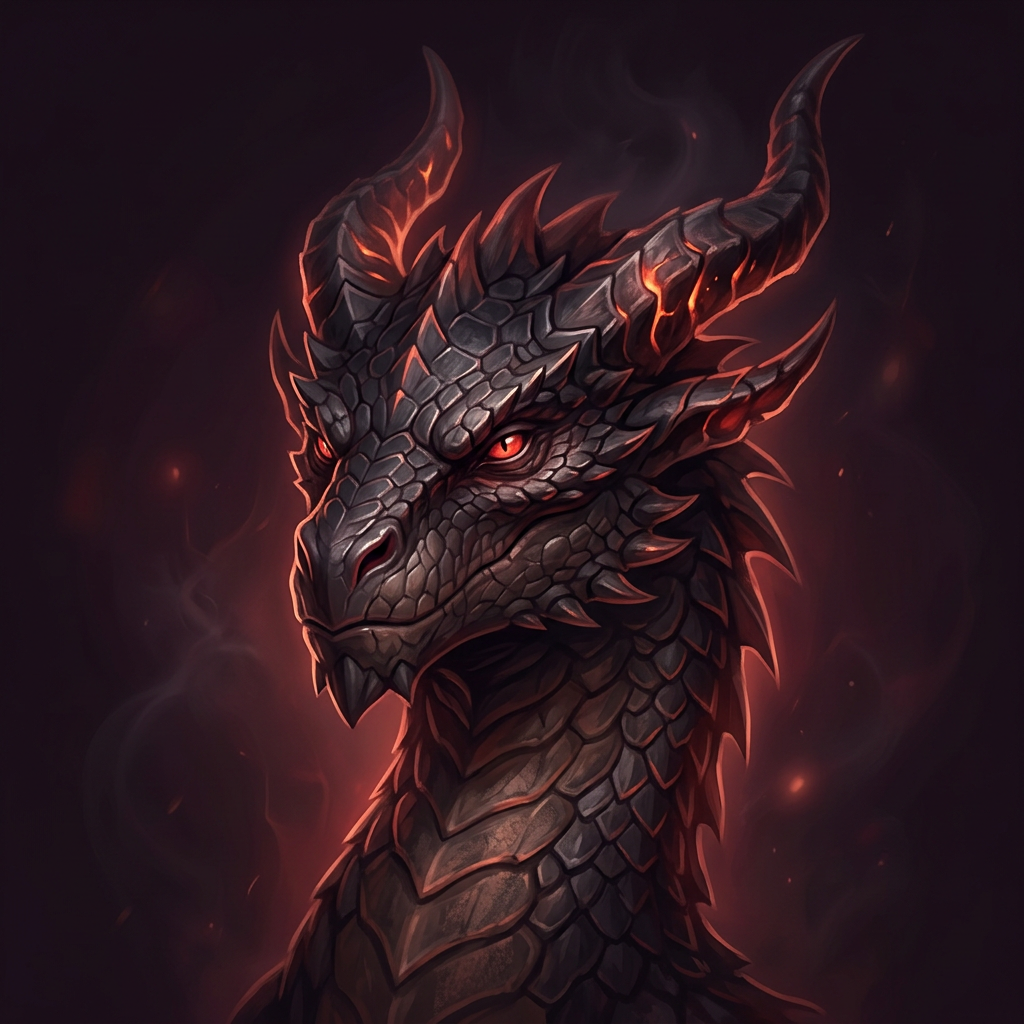
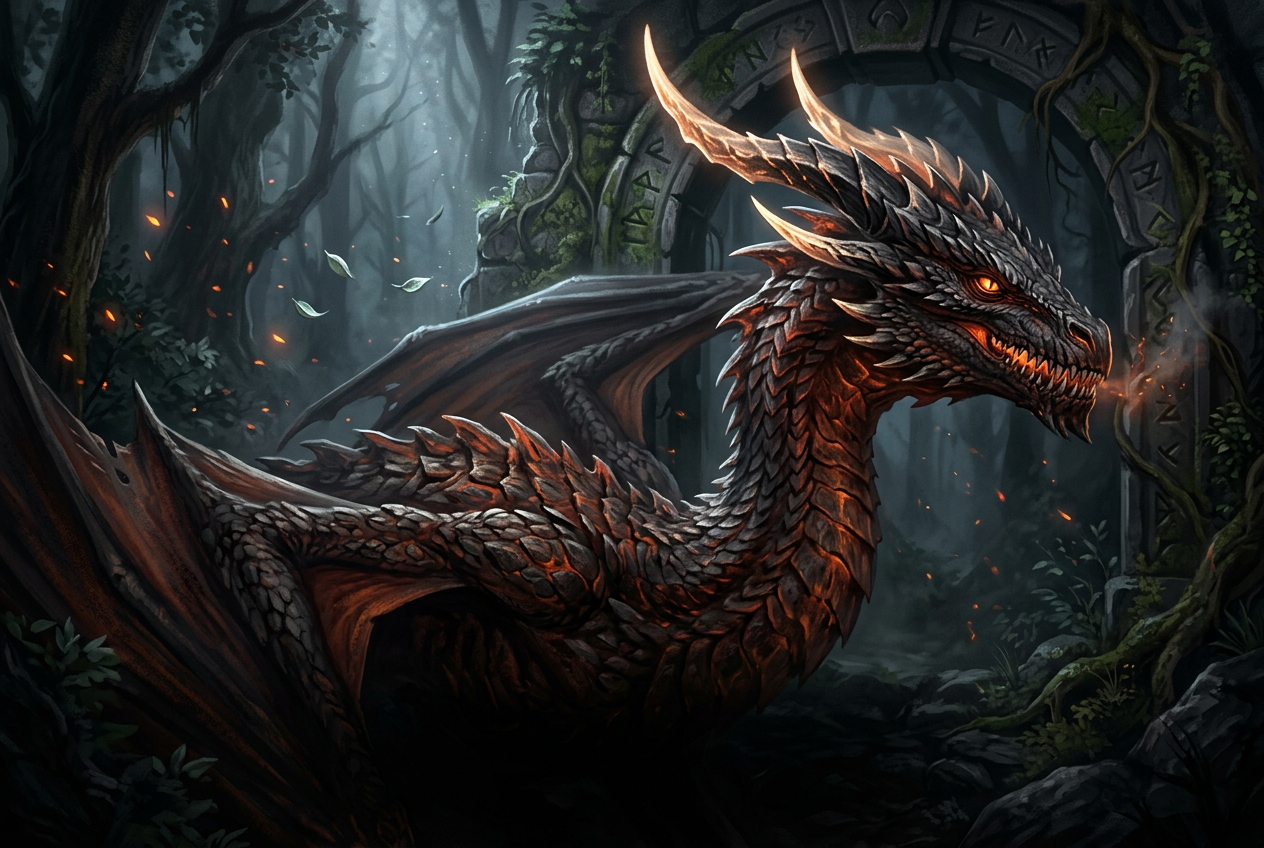
Refresh elven dragon dashboard preview
V0-Chat-Id: vu9GYSy5o8h

diff --git a/public/montemader-review.html b/public/montemader-review.html
@@ -9,17 +9,17 @@
   <style>
     :root {
       color-scheme: dark;
-      --bg: #0b0710;
-      --panel: #140c1e;
-      --raised: #1b1026;
-      --purple: #7b3f9e;
-      --pink: #c74b9e;
+      --bg: #07090a;
+      --panel: #10150f;
+      --raised: #171d16;
+      --forest: #34513a;
+      --leaf: #8fae76;
       --red: #ff526b;
-      --cyan: #64e3cc;
-      --gold: #e5bd83;
-      --text: #f1e6f6;
-      --muted: #aa9bb3;
-      --line: rgb(199 75 158 / 27%);
+      --silvergreen: #c5d8bd;
+      --gold: #d7c38a;
+      --text: #edf0e8;
+      --muted: #a9b0a3;
+      --line: rgb(143 174 118 / 27%);
       --sans: system-ui, -apple-system, BlinkMacSystemFont, "Segoe UI", sans-serif;
       --serif: "Palatino Linotype", "Book Antiqua", Georgia, serif;
       --mono: "SFMono-Regular", Consolas, "Liberation Mono", monospace;
@@ -30,20 +30,41 @@
     body { min-height: 100vh; margin: 0; background: var(--bg); color: var(--text); font-family: var(--sans); }
     button, input { font: inherit; }
     button { color: inherit; }
-    button:focus-visible, input:focus-visible { outline: 2px solid var(--cyan); outline-offset: 3px; }
+    button:focus-visible, input:focus-visible { outline: 2px solid var(--silvergreen); outline-offset: 3px; }
     .shell { width: min(1120px, calc(100% - 32px)); margin: 0 auto; }
 
     header { display: flex; align-items: center; justify-content: space-between; gap: 16px; padding: 16px 0 12px; border-bottom: 1px solid var(--line); }
     .brand { display: flex; align-items: center; gap: 12px; }
-    .brand-mark, .entrance-button { display: grid; width: 54px; height: 54px; place-items: center; border: 0; border-radius: 50%; padding: 0; background: transparent; color: #050307; cursor: pointer; font: normal 40px/1 var(--serif); -webkit-text-stroke: 1px #ead8ee; text-shadow: 0 1px 0 #f5eaf7, 0 3px 0 var(--purple), 0 6px 10px rgb(0 0 0 / 80%); transition: transform .18s ease; }
+    .brand-mark, .entrance-button { display: grid; width: 54px; height: 54px; place-items: center; border: 0; border-radius: 50%; padding: 0; background: transparent; color: #050605; cursor: pointer; font: normal 40px/1 var(--serif); -webkit-text-stroke: 1px var(--silvergreen); text-shadow: 0 1px 0 #f4f6ef, 0 3px 0 var(--forest), 0 6px 10px rgb(0 0 0 / 80%); transition: transform .18s ease; }
     .brand-mark:hover, .entrance-button:hover { transform: translateY(-2px); }
     .brand-mark:active, .entrance-button:active { transform: translateY(2px); }
     .preview-state { color: var(--gold); font-size: 10px; letter-spacing: .1em; }
+    .brand-info { display: grid; gap: 3px; }
+    .brand-info strong { color: var(--leaf); font-size: 14px; letter-spacing: .08em; text-transform: uppercase; }
+    .brand-info a, .target-link, .sms-link { color: var(--silvergreen); text-decoration: none; }
+    .brand-info a:hover, .target-link:hover, .sms-link:hover { text-decoration: underline; }
+    .brand-info span { color: var(--muted); font-size: 10px; }
+    .link-strip { display: flex; flex-wrap: wrap; gap: 14px; padding-top: 10px; color: var(--muted); font-size: 10px; }
+    #matrix-encryption-cover { position: fixed; z-index: 10; inset: 0; display: grid; place-items: center; overflow-y: auto; padding: 20px; background: rgb(4 2 6 / 98%); backdrop-filter: blur(12px); }
+    #matrix-encryption-cover[hidden] { display: none; }
+    .gate-box { width: min(100%, 420px); border: 1px solid var(--leaf); border-radius: 10px; padding: 24px; background: var(--panel); box-shadow: 0 0 38px rgb(143 174 118 / 24%); }
+    .gate-box h1 { margin: 0 0 8px; color: var(--leaf); font: 400 23px/1.15 var(--serif); }
+    .gate-box p { margin: 0 0 16px; color: var(--muted); font-size: 11px; line-height: 1.5; }
+    .gate-form { display: grid; gap: 9px; }
+    .gate-form input { min-height: 42px; border: 1px solid #46543e; border-radius: 5px; padding: 9px 12px; background: #08060c; color: var(--silvergreen); font: 12px var(--mono); letter-spacing: .16em; }
+    .gate-form button { min-height: 40px; border: 0; border-radius: 5px; background: linear-gradient(135deg, var(--forest), var(--leaf)); color: white; cursor: pointer; font-size: 11px; font-weight: 700; }
+    .gate-error { min-height: 16px; margin: 0 !important; color: var(--red) !important; }
+    .sr-only { position: absolute; width: 1px; height: 1px; padding: 0; margin: -1px; overflow: hidden; clip: rect(0, 0, 0, 0); white-space: nowrap; border: 0; }
 
     nav { display: flex; gap: 6px; overflow-x: auto; padding: 12px 0 0; }
     nav button, .manual-toggle { flex: 0 0 auto; border: 1px solid transparent; border-radius: 999px; padding: 8px 13px; background: transparent; color: var(--muted); cursor: pointer; font-size: 12px; }
-    nav button:hover { color: var(--text); }
-    nav button[aria-current="page"] { border-color: rgb(199 75 158 / 38%); background: rgb(123 63 158 / 20%); color: var(--text); }
+    nav button[data-view] { position: relative; isolation: isolate; border: 0; border-radius: 0; padding: 10px 22px; color: #d2dfc6; text-shadow: 0 1px 2px rgb(0 0 0 / 72%); }
+    nav button[data-view]::before { position: absolute; z-index: -2; inset: 0; clip-path: polygon(0 50%, 14% 19%, 42% 6%, 71% 0, 100% 50%, 72% 100%, 43% 92%, 14% 80%); background: linear-gradient(145deg, #506e47, #233728); filter: drop-shadow(0 3px 3px rgb(0 0 0 / 78%)); content: ""; }
+    nav button[data-view]::after { position: absolute; z-index: -1; inset: 49% 13%; height: 1px; clip-path: polygon(0 0, 100% 0, 100% 100%, 0 100%); background: linear-gradient(90deg, transparent, rgb(215 195 138 / 78%), transparent); content: ""; }
+    nav button[data-view]:hover::before { filter: brightness(1.18) drop-shadow(0 3px 3px rgb(0 0 0 / 78%)); }
+    nav button[data-view][aria-current="page"] { color: #f0f6e8; font-weight: 600; }
+    nav button[data-view][aria-current="page"]::before { background: linear-gradient(145deg, #6a8a57, #31523a); filter: drop-shadow(0 3px 4px rgb(0 0 0 / 72%)) drop-shadow(0 0 4px rgb(143 174 118 / 35%)); }
+    nav button[data-view]:focus-visible { outline: none; filter: drop-shadow(0 0 3px var(--silvergreen)); }
     .manual-toggle { margin-left: auto; border-color: rgb(255 82 107 / 38%); color: #ffb3bd; }
     .manual-toggle[aria-pressed="true"] { background: rgb(255 82 107 / 16%); color: #fff; }
     body.manual-mode-active { box-shadow: inset 0 0 0 3px var(--red); }
@@ -56,50 +77,48 @@
     .notice { margin: 0 0 16px; border-left: 2px solid var(--gold); padding: 8px 11px; background: rgb(229 189 131 / 5%); color: #ddc9ac; font-size: 11px; line-height: 1.5; }
 
     .metrics { display: grid; grid-template-columns: repeat(4, minmax(0, 1fr)); gap: 10px; margin-bottom: 18px; }
-    .metric, .card { border: 1px solid var(--line); border-radius: 9px; background: linear-gradient(145deg, rgb(27 16 38 / 96%), rgb(20 12 30 / 97%)); }
+    .metric, .card { border: 1px solid var(--line); border-radius: 9px; background: linear-gradient(145deg, rgb(24 31 22 / 96%), rgb(16 21 15 / 97%)); box-shadow: 0 7px 18px rgb(0 0 0 / 28%), inset 0 1px 0 rgb(255 255 255 / 4%); }
     .metric { padding: 12px; }
     .metric span { display: block; color: var(--muted); font-size: 9px; letter-spacing: .07em; text-transform: uppercase; }
     .metric strong { display: block; margin-top: 8px; font: 400 22px/1 var(--serif); }
     .bot-grid, .capability-grid { display: grid; grid-template-columns: repeat(3, minmax(0, 1fr)); gap: 12px; }
     .bot-card { overflow: hidden; }
-    .bot-image-wrap { position: relative; height: 174px; overflow: hidden; background: var(--raised); }
-    .bot-image-wrap::after { position: absolute; inset: 45% 0 0; background: linear-gradient(transparent, #171020); content: ""; pointer-events: none; }
+    .bot-image-wrap { position: relative; height: 200px; overflow: hidden; background: var(--raised); }
+    .bot-image-wrap::after { position: absolute; inset: 45% 0 0; background: linear-gradient(transparent, #10150f); content: ""; pointer-events: none; }
     .bot-image { width: 100%; height: 100%; display: block; object-fit: cover; object-position: center 39%; }
     .bot-name { position: absolute; z-index: 1; bottom: 11px; left: 13px; margin: 0; font: 400 22px/1.1 var(--serif); }
     .bot-info { display: grid; gap: 8px; padding: 14px; }
-    .bot-role { margin: 0; color: #d4c5dc; font-size: 11px; }
+    .bot-role { margin: 0; color: #d7dfce; font-size: 11px; }
     dl { display: grid; gap: 7px; margin: 0; }
     .detail { display: flex; justify-content: space-between; gap: 10px; font-size: 10px; }
     .detail dt { color: var(--muted); }
     .detail dd { margin: 0; color: var(--text); text-align: right; }
-    .healthy { color: var(--cyan) !important; }
-    .action { justify-self: start; border: 1px solid rgb(199 75 158 / 38%); border-radius: 5px; padding: 7px 9px; background: rgb(123 63 158 / 17%); color: var(--text); cursor: pointer; font-size: 10px; }
-    .action:hover { border-color: var(--pink); background: rgb(123 63 158 / 30%); }
+    .healthy { color: var(--silvergreen) !important; }
+    .conduit { border: 1px dashed rgb(143 174 118 / 38%); border-radius: 6px; padding: 8px; color: #c5d8bd; font-size: 10px; line-height: 1.5; }
+    .status-strip { display: flex; align-items: center; justify-content: space-between; gap: 12px; margin: 0 0 16px; }
+    .action { justify-self: start; border: 1px solid rgb(143 174 118 / 48%); border-radius: 5px; padding: 7px 9px; background: linear-gradient(180deg, rgb(70 101 62 / 48%), rgb(36 58 39 / 78%)); box-shadow: 0 2px 0 #1b2a1d, 0 5px 9px rgb(0 0 0 / 32%), inset 0 1px 0 rgb(255 255 255 / 8%); color: var(--text); cursor: pointer; font-size: 10px; transition: transform .16s ease, box-shadow .16s ease, background .16s ease; }
+    .action:hover { border-color: var(--leaf); background: linear-gradient(180deg, rgb(92 124 75 / 62%), rgb(42 69 46 / 88%)); box-shadow: 0 3px 8px rgb(0 0 0 / 38%), inset 0 1px 0 rgb(255 255 255 / 12%); transform: translateY(-1px); }
+    .action:active { box-shadow: inset 0 2px 4px rgb(0 0 0 / 38%); transform: translateY(1px); }
 
     .section-heading { margin: 22px 0 10px; font: 400 17px/1.2 var(--serif); }
     .two-column { display: grid; grid-template-columns: 1.1fr .9fr; gap: 12px; }
     .card-pad { padding: 14px; }
     .card h2 { margin: 0 0 11px; font: 400 16px/1.2 var(--serif); }
-    .terminal { min-height: 100px; max-height: 180px; overflow: auto; border: 1px solid #382246; border-radius: 6px; padding: 10px; background: #08060c; color: #c2d9d1; font: 10px/1.7 var(--mono); }
+    .terminal { min-height: 100px; max-height: 180px; overflow: auto; border: 1px solid #344439; border-radius: 6px; padding: 10px; background: #08060c; color: #c2d9d1; font: 10px/1.7 var(--mono); }
     .terminal-line + .terminal-line { margin-top: 3px; }
     .terminal-label { color: var(--gold); }
     .capability-card { display: grid; align-content: start; gap: 9px; padding: 14px; }
-    .capability-card h2 { margin: 0; color: var(--pink); }
+    .capability-card h2 { margin: 0; color: var(--leaf); }
     .capability-card p { margin: 0; color: var(--muted); font-size: 11px; }
-    .capability-card ul { display: grid; gap: 7px; margin: 0; padding-left: 17px; color: #d8cce6; font-size: 10px; line-height: 1.45; }
+    .capability-card ul { display: grid; gap: 7px; margin: 0; padding-left: 17px; color: #dce5d5; font-size: 10px; line-height: 1.45; }
 
-    .matrix-gate { max-width: 480px; margin: 0 auto; border: 1px dashed rgb(199 75 158 / 55%); border-radius: 9px; padding: 20px; background: var(--panel); text-align: center; }
-    .matrix-gate h2 { margin: 0 0 12px; font: 400 19px/1.2 var(--serif); }
-    .matrix-form { display: flex; justify-content: center; gap: 8px; }
-    .matrix-form input, .sign-in input { min-height: 38px; border: 1px solid #543366; border-radius: 5px; padding: 8px 10px; background: #08060c; color: var(--text); font-size: 11px; }
-    .matrix-form input { width: min(230px, 100%); }
-    .matrix-error { color: var(--red); font-size: 11px; }
+    .sign-in input { min-height: 38px; border: 1px solid #46543e; border-radius: 5px; padding: 8px 10px; background: #08060c; color: var(--text); font-size: 11px; }
     .matrix-data[hidden] { display: none; }
     .data-grid { display: grid; grid-template-columns: repeat(2, minmax(0, 1fr)); gap: 12px; }
     .data-card { padding: 14px; }
     .data-card h2 { margin: 0 0 10px; font: 400 16px/1.2 var(--serif); }
     .data-row { display: grid; grid-template-columns: 112px 1fr; gap: 10px; border-top: 1px solid var(--line); padding: 8px 0; font-size: 10px; }
-    .data-row strong { color: #dfcfe7; font-weight: 500; }
+    .data-row strong { color: #dfe7d7; font-weight: 500; }
     .data-row span { color: var(--muted); }
     .data-full { grid-column: 1 / -1; }
 
@@ -108,7 +127,7 @@
     .sign-in { width: min(100%, 340px); border: 1px solid var(--line); border-radius: 9px; padding: 18px; background: var(--panel); }
     .sign-in h2 { margin: 0 0 13px; font: 400 20px/1.2 var(--serif); }
     .sign-in form { display: grid; gap: 10px; }
-    .sign-in label { display: grid; gap: 5px; color: #ddd0e5; font-size: 10px; }
+    .sign-in label { display: grid; gap: 5px; color: #dde5d8; font-size: 10px; }
     .sign-in input { width: 100%; }
     .sign-in .action { width: 100%; }
     footer { border-top: 1px solid var(--line); padding: 12px 0 18px; color: var(--muted); font-size: 9px; }
@@ -120,11 +139,13 @@
       .two-column, .data-grid { grid-template-columns: 1fr; }
       .data-full { grid-column: auto; }
       .page-title { align-items: start; flex-direction: column; }
+      header { align-items: flex-start; }
+      .brand-info strong { font-size: 12px; }
     }
     @media (max-width: 430px) {
       .shell { width: calc(100% - 24px); }
-      .matrix-form { flex-direction: column; }
-      .matrix-form input, .matrix-form .action { width: 100%; }
+      nav { flex-wrap: wrap; overflow-x: visible; }
+      nav .manual-toggle { margin-left: 0; }
       .data-row { grid-template-columns: 1fr; gap: 4px; }
     }
     @media (prefers-reduced-motion: reduce) {
@@ -133,12 +154,28 @@
   </style>
 </head>
 <body>
-  <div class="shell">
+  <section id="matrix-encryption-cover" role="dialog" aria-modal="true" aria-labelledby="gate-title">
+    <div class="gate-box">
+      <h1 id="gate-title">Matrix access</h1>
+      <p>Preview gate · this demo code does not secure the page.</p>
+      <form class="gate-form" id="matrix-access-form">
+        <label class="sr-only" for="matrix-access-code">Demo access code</label>
+        <input id="matrix-access-code" name="code" type="password" autocomplete="off" placeholder="DEMO CODE" required>
+        <button type="submit">Enter</button>
+        <p class="gate-error" id="matrix-access-error" role="alert" aria-live="polite"></p>
+      </form>
+    </div>
+  </section>
+  <div class="shell" id="preview-shell" inert>
     <header>
       <div class="brand">
         <button class="brand-mark" id="open-sign-in" type="button" aria-label="M — open sign in">M</button>
+        <div class="brand-info">
+          <strong><a href="https://montemader.com" target="_blank" rel="noopener noreferrer">Montemader.com</a> · Defense Grid</strong>
+          <span>Tunnel status · bot controls · event data</span>
+        </div>
       </div>
-      <span class="preview-state">SAMPLE · NOT LIVE</span>
+      <span class="preview-state">SAMPLE</span>
     </header>
 
     <nav aria-label="Pages">
@@ -151,7 +188,11 @@
     <main tabindex="-1">
       <section class="view" id="view-dashboard" aria-labelledby="dashboard-title">
         <div class="page-title"><h1 id="dashboard-title">Defense grid</h1><span class="sample-tag">DEMO DATA</span></div>
-        <p class="notice" role="note">Sample telemetry · not connected to live bots.</p>
+        <div class="status-strip">
+          <p class="notice" role="note">Sample telemetry · not connected to live bots.</p>
+          <a class="sms-link" href="sms:+14258303312?body=EMERGENCY%20SITE%20ATTACK%20-%20montemader.com" aria-label="Compose an emergency SMS to +1 425-830-3312">SMS +1 425-830-3312</a>
+        </div>
+        <div class="link-strip"><span>Target: <a class="target-link" href="https://montemader.com" target="_blank" rel="noopener noreferrer">montemader.com</a></span><span>SMS: <a class="sms-link" href="tel:+14258303312">+1 425-830-3312</a></span><span>SMS opens compose only · no live dispatch</span></div>
         <div class="metrics" aria-label="Sample metrics">
           <article class="metric"><span>Bot profiles</span><strong>03</strong></article>
           <article class="metric"><span>Sample events</span><strong>06</strong></article>
@@ -160,45 +201,50 @@
         </div>
         <div class="bot-grid">
           <article class="card bot-card">
-            <div class="bot-image-wrap"><img class="bot-image" src="/images/superbot-portrait.png" alt="Illustration of SuperBot, an elven dragon guardian"><h2 class="bot-name">SuperBot</h2></div>
+            <div class="bot-image-wrap"><img class="bot-image" src="/images/superbot-portrait.png" alt="Teal dragon perched in moonlit forest ruins"><h2 class="bot-name">SuperBot</h2></div>
             <div class="bot-info">
               <p class="bot-role">Elf Lord WAF / Edge AI</p>
               <dl>
+                <div class="detail"><dt>Target</dt><dd><a class="target-link" href="https://montemader.com" target="_blank" rel="noopener noreferrer">montemader.com</a></dd></div>
                 <div class="detail"><dt>Tunnel</dt><dd>Alpha · 443</dd></div>
-                <div class="detail"><dt>Capabilities</dt><dd>JS challenge · IP throttling</dd></div>
-                <div class="detail"><dt>Health</dt><dd class="healthy">100% · sample</dd></div>
-                <div class="detail"><dt>Heartbeat</dt><dd>Active · demo only</dd></div>
+                <div class="detail"><dt>Channel</dt><dd>WebSocket · TLS 1.3</dd></div>
+                <div class="detail"><dt>Health</dt><dd class="healthy">Sample · 100%</dd></div>
+                <div class="detail"><dt>Heartbeat</dt><dd>Demo only</dd></div>
               </dl>
-              <button class="action" type="button" data-demo-attack="SuperBot">Test alert</button>
+              <div class="conduit">WAF · reputation scoring · JS challenge</div>
+              <button class="action" type="button" data-demo-attack="SuperBot">Preview route</button>
             </div>
           </article>
 
           <article class="card bot-card">
-            <div class="bot-image-wrap"><img class="bot-image" src="/images/xena-portrait.png" alt="Illustration of Xena holding a plain, unmarked shield"><h2 class="bot-name">Xena</h2></div>
+            <div class="bot-image-wrap"><img class="bot-image" src="/images/xena-portrait.png" alt="Violet dragon holding an upright plain shield in an ancient forest"><h2 class="bot-name">Xena</h2></div>
             <div class="bot-info">
               <p class="bot-role">Interceptor dragon · buffer</p>
               <dl>
+                <div class="detail"><dt>Target</dt><dd><a class="target-link" href="https://montemader.com" target="_blank" rel="noopener noreferrer">montemader.com</a></dd></div>
                 <div class="detail"><dt>Tunnel</dt><dd>Beta · 8443</dd></div>
-                <div class="detail"><dt>Capabilities</dt><dd>Flood absorption · load distribution</dd></div>
-                <div class="detail"><dt>Health</dt><dd class="healthy">100% · sample</dd></div>
-                <div class="detail"><dt>Hold</dt><dd>Indefinite · conceptual</dd></div>
-                <div class="detail"><dt>Shield</dt><dd>Plain · unmarked</dd></div>
+                <div class="detail"><dt>Channel</dt><dd>gRPC</dd></div>
+                <div class="detail"><dt>Health</dt><dd class="healthy">Sample · 100%</dd></div>
+                <div class="detail"><dt>Shield</dt><dd>Upright · unmarked</dd></div>
               </dl>
-              <button class="action" type="button" data-demo-attack="Xena">Test alert</button>
+              <div class="conduit">Buffer · flood absorption · load distribution</div>
+              <button class="action" type="button" data-demo-attack="Xena">Preview route</button>
             </div>
           </article>
 
           <article class="card bot-card">
-            <div class="bot-image-wrap"><img class="bot-image" src="/images/ruach-portrait.png" alt="Illustration of Ruach, an ember-red dragon guardian"><h2 class="bot-name">Ruach</h2></div>
+            <div class="bot-image-wrap"><img class="bot-image" src="/images/ruach-portrait.png" alt="Ember-red dragon turning toward the viewer in a forest gate"><h2 class="bot-name">Ruach</h2></div>
             <div class="bot-info">
               <p class="bot-role">Vanguard dragon · scraper review</p>
               <dl>
+                <div class="detail"><dt>Target</dt><dd><a class="target-link" href="https://montemader.com" target="_blank" rel="noopener noreferrer">montemader.com</a></dd></div>
                 <div class="detail"><dt>Tunnel</dt><dd>Gamma · 9443</dd></div>
-                <div class="detail"><dt>Capabilities</dt><dd>Scraper tracking · vault lockdown</dd></div>
-                <div class="detail"><dt>Health</dt><dd class="healthy">100% · sample</dd></div>
-                <div class="detail"><dt>Response</dt><dd>Defensive · conceptual</dd></div>
+                <div class="detail"><dt>Channel</dt><dd>Secure TCP</dd></div>
+                <div class="detail"><dt>Health</dt><dd class="healthy">Sample · 100%</dd></div>
+                <div class="detail"><dt>Response</dt><dd>Demo only</dd></div>
               </dl>
-              <button class="action" type="button" data-demo-attack="Ruach">Test alert</button>
+              <div class="conduit">Scraper review · origin vault lockdown</div>
+              <button class="action" type="button" data-demo-attack="Ruach">Preview route</button>
             </div>
           </article>
         </div>
@@ -248,17 +294,8 @@
 
       <section class="view" id="view-matrix" aria-labelledby="matrix-title" hidden>
         <div class="page-title"><h1 id="matrix-title">Intel</h1><span class="sample-tag">DEMO RECORDS</span></div>
-        <p class="notice" role="note">Sample records only · demo key is not security.</p>
-        <div class="matrix-gate" id="matrix-gate">
-          <h2>Matrix</h2>
-          <form class="matrix-form" id="matrix-form">
-            <label class="sr-only" for="matrix-password">Demo password</label>
-            <input id="matrix-password" name="password" type="password" autocomplete="off" placeholder="Demo key" required>
-            <button class="action" type="submit">Unlock</button>
-          </form>
-          <p class="matrix-error" id="matrix-error" role="alert" aria-live="polite"></p>
-        </div>
-        <div class="matrix-data" id="matrix-data" hidden>
+        <p class="notice" role="note">Sample records only.</p>
+        <div class="matrix-data" id="matrix-data">
           <div class="data-grid">
             <article class="card data-card">
               <h2>Events</h2>
@@ -369,18 +406,20 @@
         ["SuperBot", "Xena", "Ruach"].forEach((name) => appendLine(document.querySelector("#tester-log"), `${name} sample test complete.`));
       });
 
-      document.querySelector("#matrix-form").addEventListener("submit", (event) => {
+      const accessCover = document.querySelector("#matrix-encryption-cover");
+      const accessCode = document.querySelector("#matrix-access-code");
+      const accessError = document.querySelector("#matrix-access-error");
+      accessCode.focus();
+      document.querySelector("#matrix-access-form").addEventListener("submit", (event) => {
         event.preventDefault();
-        const error = document.querySelector("#matrix-error");
-        if (new FormData(event.currentTarget).get("password") === "MATRIX") {
-          document.querySelector("#matrix-gate").hidden = true;
-          document.querySelector("#matrix-data").hidden = false;
-          error.textContent = "";
-          document.querySelector("#matrix-data h2").focus();
-        } else {
-          error.textContent = "Incorrect demo key.";
-          document.querySelector("#matrix-password").focus();
+        if (accessCode.value.trim().toUpperCase() === "MATRIX") {
+          accessCover.hidden = true;
+          document.querySelector("#preview-shell").inert = false;
+          document.querySelector("#open-sign-in").focus();
+          return;
         }
+        accessError.textContent = "Invalid demo code.";
+        accessCode.select();
       });
     })();
   </script>
